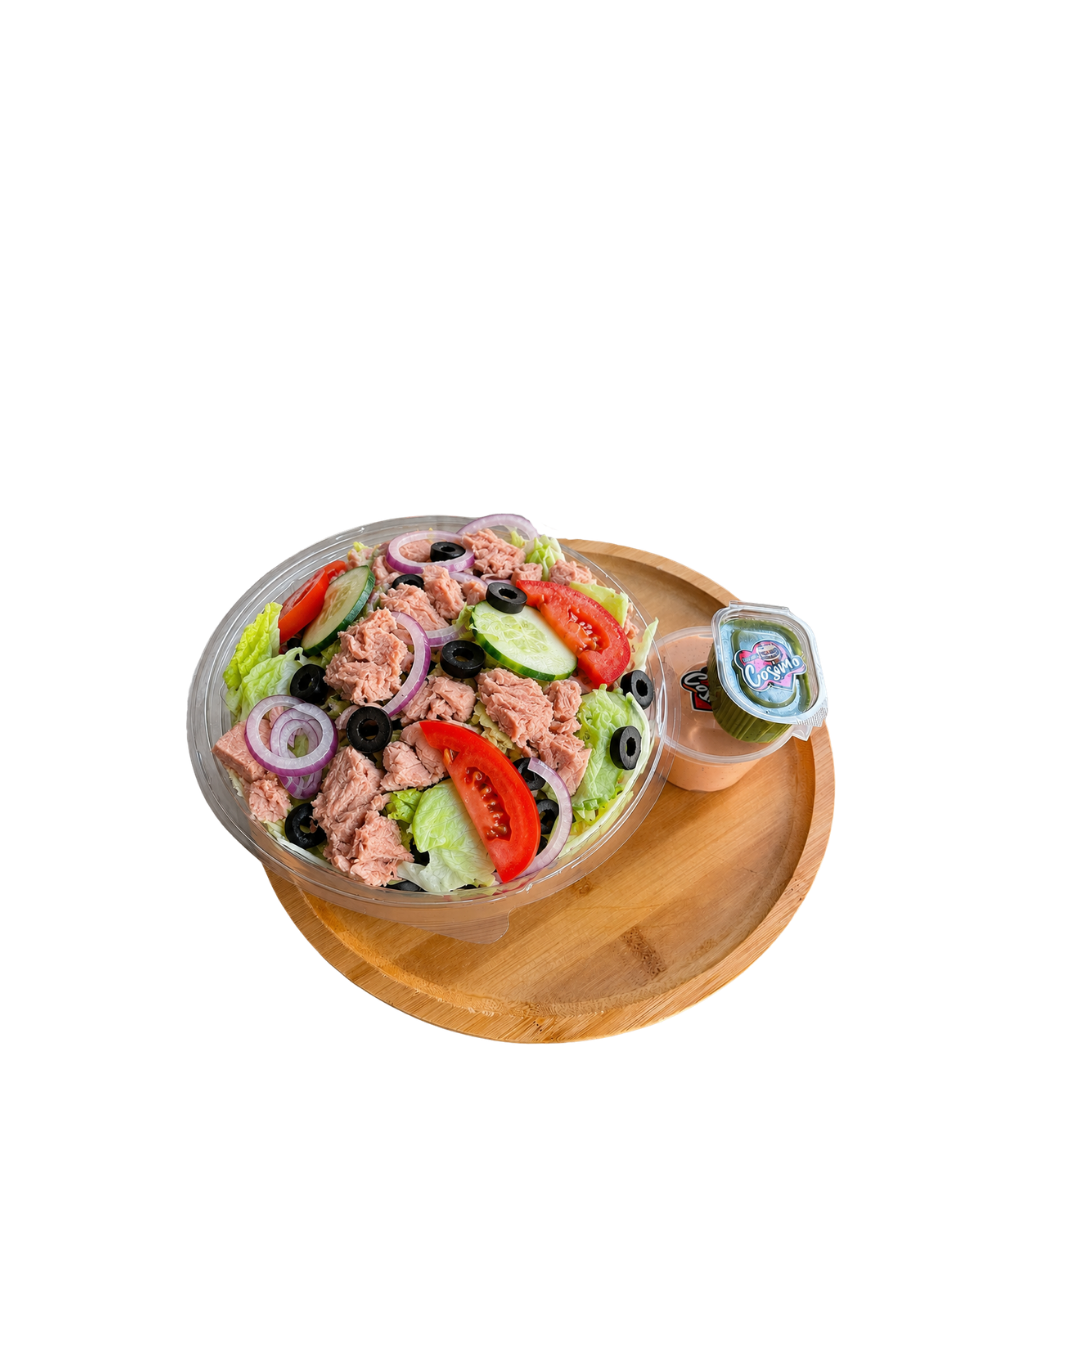
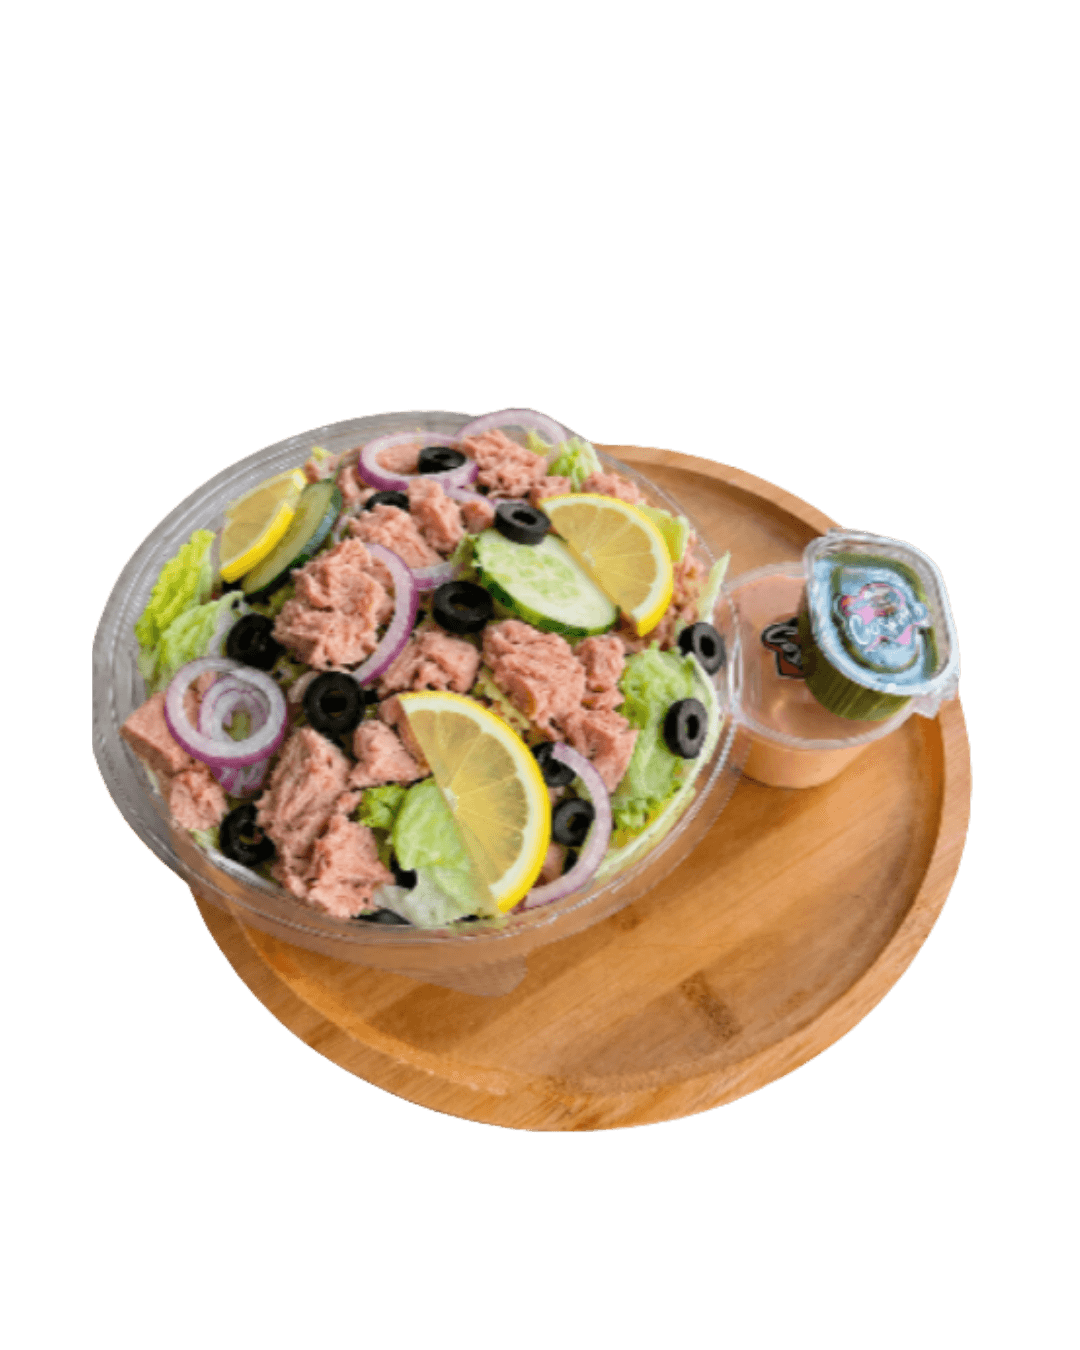
Update Pittburger Dublu label, new tuna salad photo, unify salad image sizes
- Pittburger Dublu label now shows "2 chiftele" explicitly
- New Salată cu Ton photo
- All 3 salads (kebab meat, tuna, vegetarian) use imageScale 1.3 for
  consistent sizing

diff --git a/pages/corvin/index.tsx b/pages/corvin/index.tsx
@@ -85,8 +85,8 @@ const MENU: MenuItem[] = [
     priceFamily: '21 lei',
     sizeMediumLabel: 'Simplu · 260g',
     sizeMediumLabelEn: 'Single · 260g',
-    sizeFamilyLabel: 'Dublu · 330g',
-    sizeFamilyLabelEn: 'Double · 330g',
+    sizeFamilyLabel: 'Dublu · 2 chiftele · 330g',
+    sizeFamilyLabelEn: 'Double · 2 patties · 330g',
     ingredients: 'Chiflă, chiftea vită + porc — 1 chiftea la Simplu, 2 chiftele la Dublu, cartofi prăjiți, maioneză cu varză, ketchup, castraveți murați, condimente.',
     ingredientsEn: 'Bun, beef + pork patty — 1 patty on Single, 2 patties on Double, fries, mayo with cabbage, ketchup, pickles, spices.',
     image: '/images/corvin/pittburger-simplu.jpeg',
@@ -197,7 +197,7 @@ const MENU: MenuItem[] = [
     ingredients: 'Ton, ceapă roșie, roșii, salată iceberg, morcov, castraveți, dressing orange Cosimo și dressing pătrunjel cu lămâie. 280g',
     ingredientsEn: 'Tuna, red onion, tomato, iceberg lettuce, carrot, cucumber, Cosimo orange dressing and parsley–lemon dressing. 280g',
     image: '/images/corvin/salata-ton.png',
-    imageScale: 1.4,
+    imageScale: 1.3,
   },
   {
     slug: 'salata-vegetala',
@@ -208,7 +208,7 @@ const MENU: MenuItem[] = [
     ingredients: 'Roșii, salată iceberg, morcov, varză, castraveți, ceapă roșie, ardei iute (opțional), dressing tzatziki sau dressing orange Cosimo, dressing de pătrunjel cu lămâie. 270g',
     ingredientsEn: 'Tomato, iceberg lettuce, carrot, cabbage, cucumber, red onion, chilli pepper (optional), tzatziki or Cosimo orange dressing, parsley–lemon dressing. 270g',
     image: '/images/corvin/salata-vegetala.png',
-    imageScale: 1.0,
+    imageScale: 1.3,
   },
   {
     slug: 'cartofi',